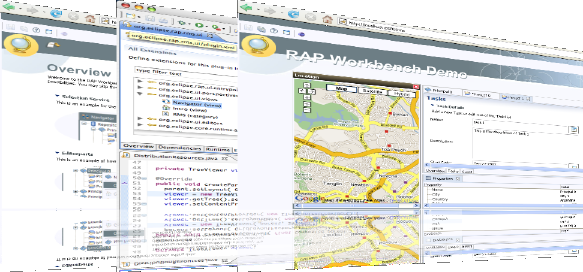
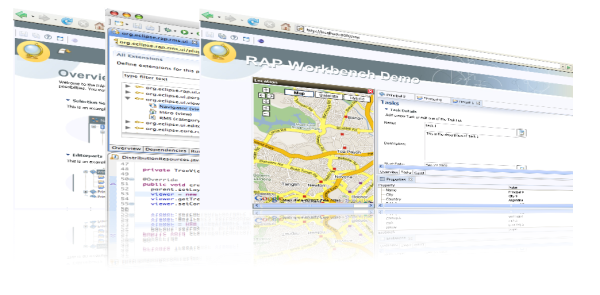
improve screens image

diff --git a/newsite/index.php b/newsite/index.php
@@ -11,7 +11,7 @@ $html = <<<EOHTML
 
   <table width="100%" border="0">
       <tr>
-    <td colspan="2" align="center"><img src="../images/screens.png" alt="RAP" width="583" height="272" border="0"/></td>
+    <td colspan="2" align="center"><img src="../images/screens.png" alt="RAP" width="600" height="295" border="0"/></td>
       <td width="15%" rowspan="2" valign="top">
       </td>
     </tr>
